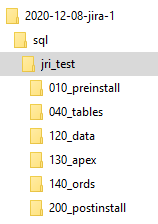
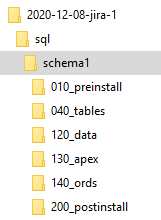
updated documentation
Updated the documentation

diff --git a/README.md b/README.md
@@ -85,11 +85,11 @@ You can freely create a subdirectory structure under ``sql/<schema name>`` and p
 The file ``1.copy-source-files.cmd`` is configured to copy files from the source directory ``sql`` to the target directory ``<patch name>/sql``. In the file ``SourceFilesCopy.conf`` you only configure, which files you want to have copied, e.g.: 
 <pre style="overflow-x: auto; white-space: pre-wrap; white-space: -moz-pre-wrap; white-space: -pre-wrap; white-space: -o-pre-wrap; word-wrap: break-word;">
 # Tables
-jri_test/tables => jri_test/040_tables
+schema1/tables => schema1/040_tables
 <b>xlib*.sql</b>
 </pre>
 
-Only tables (i.e. files) which match the wildcard ``xlib*.sql`` will be copied to the target directory ``<patch name>/sql/jri_test/040_tables``. 
+Only tables (i.e. files) which match the wildcard ``xlib*.sql`` will be copied to the target directory ``<patch name>/sql/schema1/040_tables``. 
 
 ## Execute the patch
 
@@ -127,6 +127,10 @@ spool off
 # Advanced Customization
 
 The solution can be customized to suit your needs. You can find more information [here](src/doc/Customization.md).
+
+It is best to start with the patch template. Modify the shell scripts you find there. Remove the ones that you don't need, add elements to the ``sql`` folder structure that you would need in all patches. Also, look at the command line switches in the shell scripts and adapt them to suit your needs.
+
+In the beginning, the logging in the database tables is disabled. Check the documentation on [how to activate it](src/doc/Customization.md#database-log-tables). 
 
 Here is an overview of SQLcl commands that you can use: https://docs.oracle.com/en/database/oracle/sql-developer-command-line/20.3/sqcug/working-sqlcl.html. 
 

diff --git a/src/doc/Customization.md b/src/doc/Customization.md
@@ -1,6 +1,7 @@
 * [Setup](#setup)
 * [About Shell Scripting](#about-shell-scripting)
 * [About File Encodings](#about-file-encodings)
+* [About Java Regular Expressions](#about-java-regular-expressions)
 * [opal-install](#opal-install)
   * [Command Line](#command-line)
   * [Database Log Tables](#database-log-tables)
@@ -110,7 +111,7 @@ setup.cmd --project-root-dir c:\Projects\project1
 ```
 ./setup.sh --project-root-dir <project root directory>
 e.g.
-.7setup.sh --project-root-dir /u01/project1
+./setup.sh --project-root-dir /u01/project1
 ```
 
 All environment variables are set up in the "**Local script to initialize the user environment**", e.g.: ``c:\opal-installer-local\setProjectEnvironment-project1.cmd``. 
@@ -158,6 +159,16 @@ Your choice during setup will also generate the right mapping into the file [opa
   ],
 ```
 APEX files are always exported as UTF-8 by SQLcl or the APEXExport class utility, no matter what you define in ``-Dfile.encoding``. 
+
+# About Java Regular Expressions
+
+We are using Java Regular expressions in a number of places in the ``opal-installer.json`` file. The syntax can be found here: https://docs.oracle.com/javase/7/docs/api/java/util/regex/Pattern.html .
+
+Special characters need to be escaped. And they need to be escaped again when reading the regular expression from a file in a string. 
+
+Thus, when matching a file system path on Windows, e.g. ``\sql\`` the proper regular expression is ``\\\\sql\\\\`` because the ``\`` needs to be escaped **twice**:
+* ``\sql\`` => ``\\sql\\`` for escaping the (regular expression) special character ``\``
+* ``\\sql\\`` => ``\\\\sql\\\\`` for escaping the (Java) special character ``\`` in a Java String. 
 
 # opal-install
 
